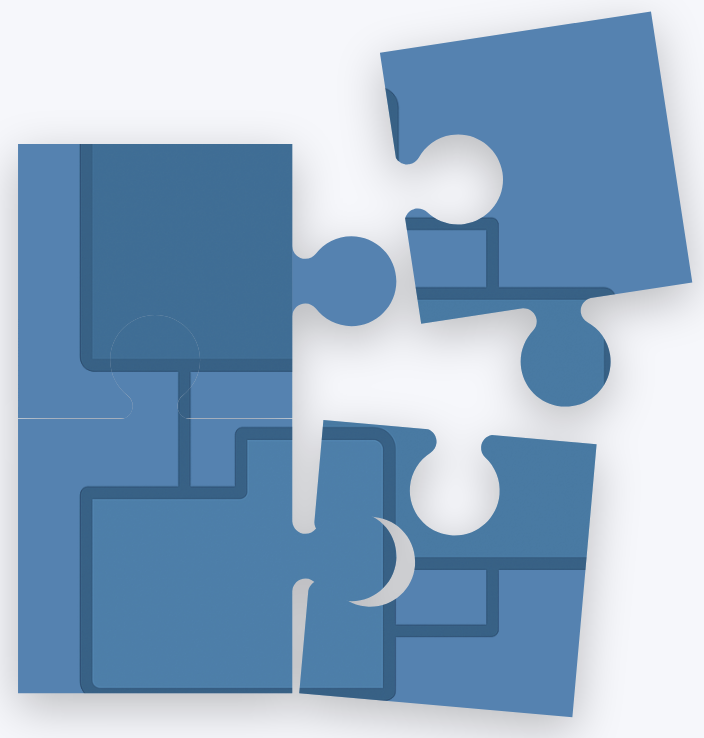
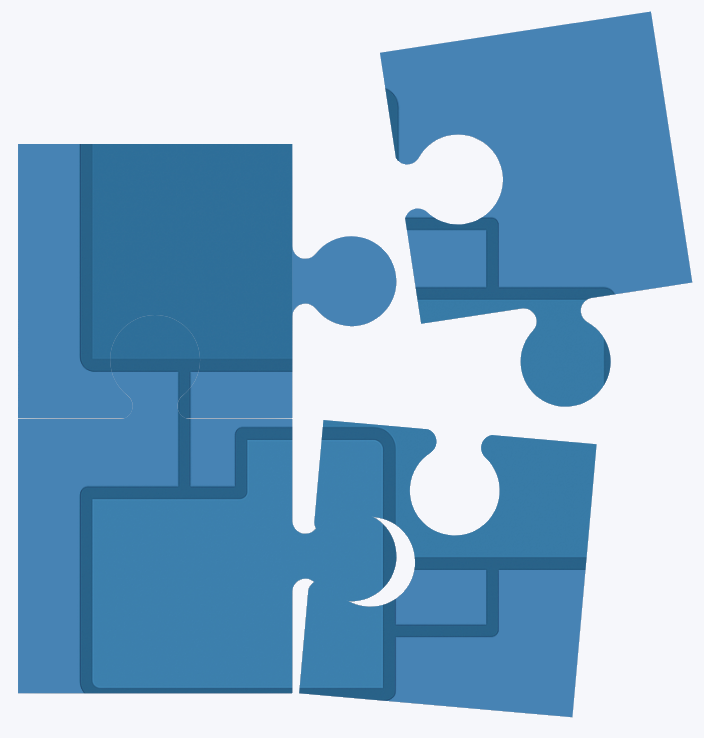
Latest updates

diff --git a/app.py b/app.py
@@ -238,7 +238,7 @@ def main() -> None:
         "*A focused Trade & Portfolio Structuring investigation environment from the broader FIT suite.*"
     )
 
-    st.divider()
+    st.space()
     _render_intro_block()
     st.divider()
     _render_capabilities_block()
